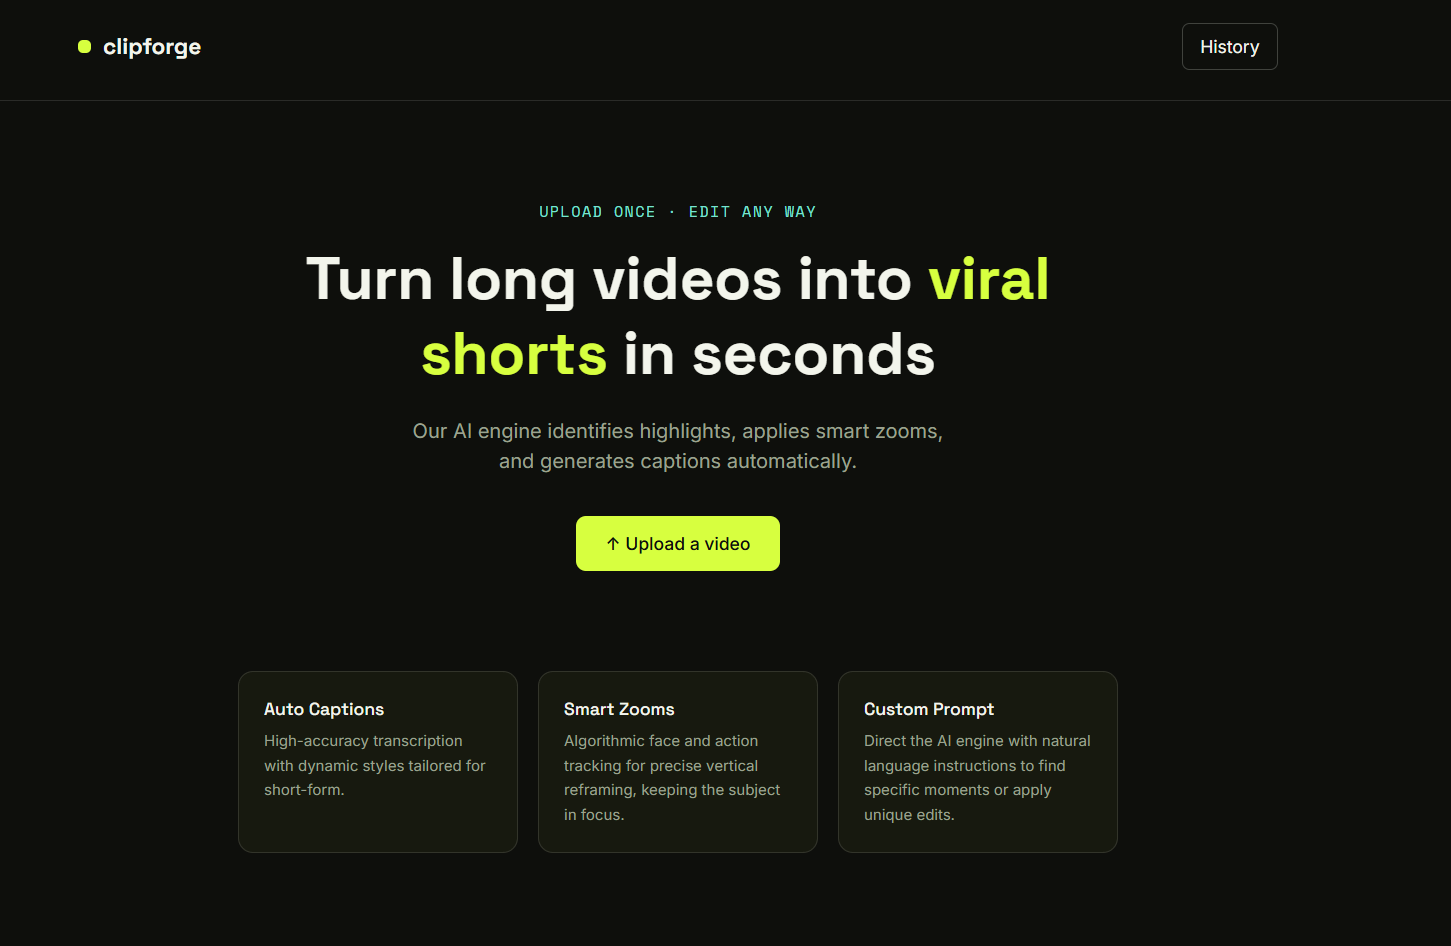
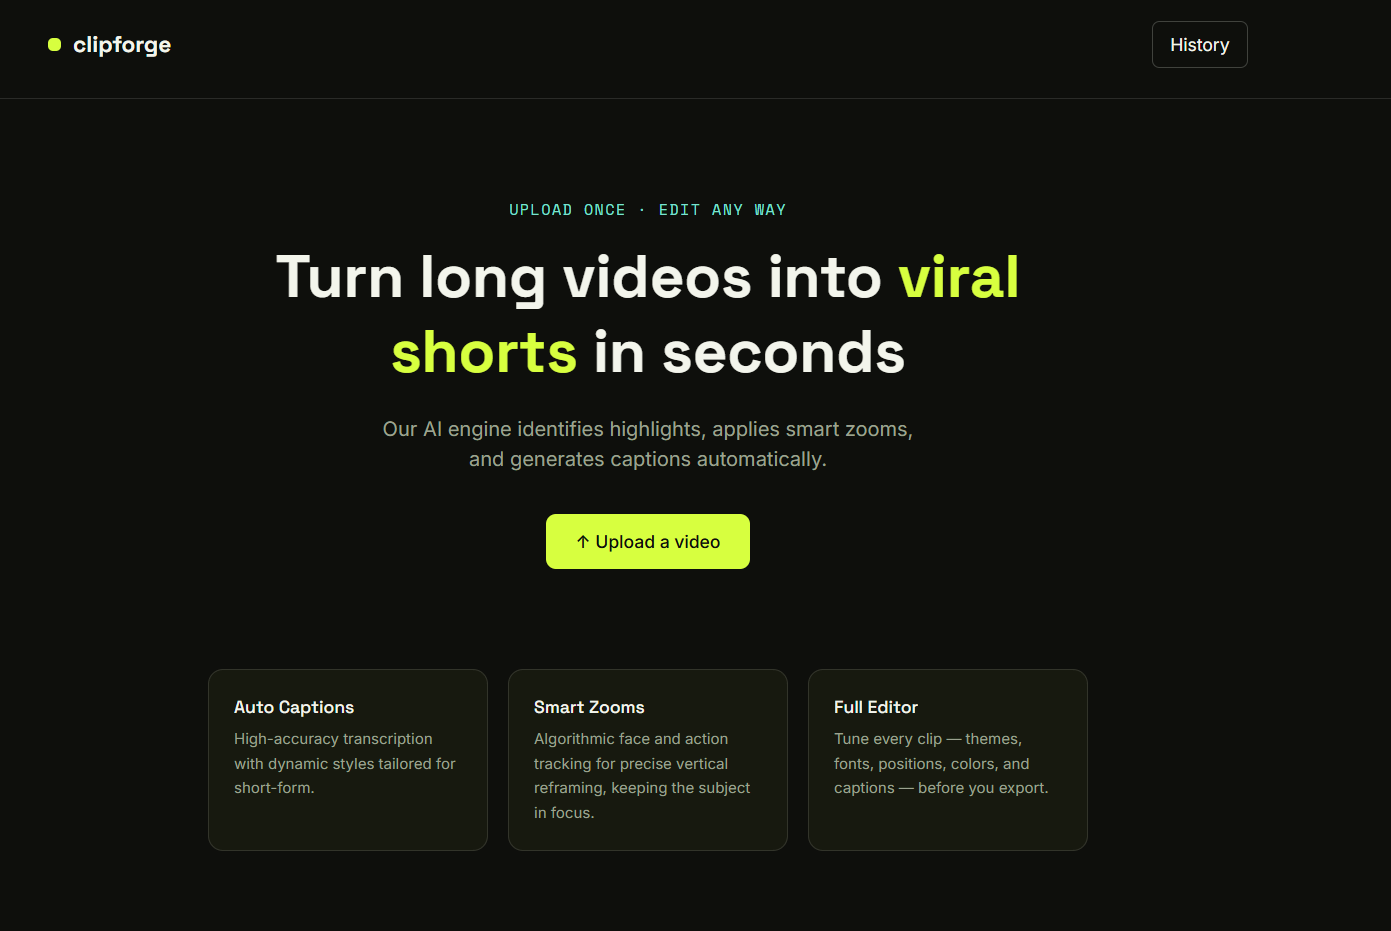
Add McDoc and Clipforge to the More Work section
Add project tiles for McDoc and Clipforge alongside RiceGuard in the
Projects page "More Work" grid, with screenshots and project links.

diff --git a/src/App.jsx b/src/App.jsx
@@ -366,7 +366,31 @@ function ProjectsContent() {
             tags={['Python', 'Streamlit', 'Computer Vision']}
             sourceLink="https://github.com/Isaac06272/riceguard"
           />
-          
+
+          <ProjectCard
+            title="Clipforge"
+            year="2026"
+            description="An AI-powered video editing agent that transforms long-form videos into short, viral-ready clips. Features smart highlight extraction, automatic caption generation, dynamic cropping, and an interactive caption editor for polishing each clip before export."
+            active={true}
+            imgSrc="clipforge.png"
+            showCaseStudy={false}
+            projectLink="https://clipforge-lovat-mu.vercel.app/"
+            tags={['React', 'Node.js', 'FFmpeg', 'Gemini API']}
+            sourceLink="https://github.com/Isaac06272/clipforge"
+          />
+
+          <ProjectCard
+            title="McDoc"
+            year="2026"
+            description="A cross-platform mobile application for managing prescriptions and medication schedules. Features real-time adherence tracking, daily dose reminders, and a scan-based prescription intake system for streamlined health management."
+            active={true}
+            imgSrc="mcdoc.png"
+            showCaseStudy={false}
+            projectLink="https://github.com/Isaac06272/McDoc"
+            tags={['TypeScript', 'Capacitor', 'Supabase', 'Android']}
+            sourceLink="https://github.com/Isaac06272/McDoc"
+          />
+
         </div>
       </section>
     </div>
